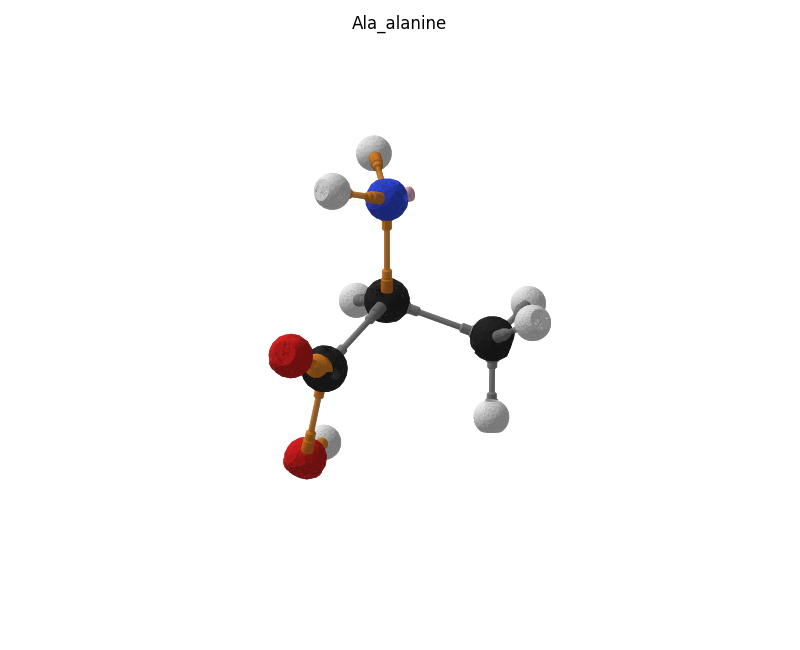
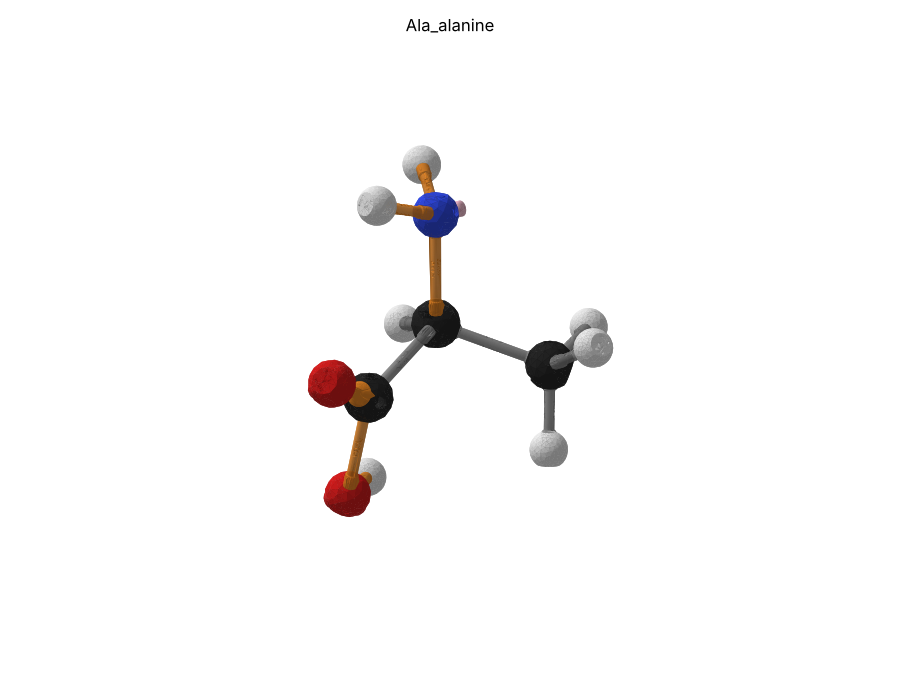
Исправить плоскостность этилена: C_D_PHASE -55.5 -> -61.5
Двугранные углы H-C=C-H были 12°/168° (закрутка, отклонение от плоскости до 8,4 мм),
стали 0°/180°. Пересчитан seat_cache_v2.json, добавлен pipeline/check_planar.py,
docs/SP2_PLANARITY.md с результатами и открытыми вопросами (C=N, N=N, аллен),
обновлены PNG этилена, CO2 и аланина.

Claude-Session: https://claude.ai/code/session_01UFShqiFHiL7LBFjN7V5Hne

diff --git a/00_source/pipeline/check_planar.py b/00_source/pipeline/check_planar.py
@@ -1,0 +1,52 @@
+"""Проверка плоскостности sp²-фрагментов с двойной связью.
+
+Для каждой двойной связи, у которой на обоих концах есть заместители, собирает пару «атом–связь–атом»
+по посадке из seat_cache_v2.json и печатает двугранные углы заместителей. Плоско = 0° или 180°.
+
+Запуск из рабочей папки, где лежат v2/<деталь>.stl, chemlib.py и seat_cache_v2.json:
+    python3 check_planar.py          # код возврата 1, если нарушена плоскость у обязательных связей (C=C, N=O)
+Известно: C=N и N=N пока не плоские (см. docs/SP2_PLANARITY.md); они печатаются как предупреждение.
+"""
+import sys
+import numpy as np
+from chemlib import S, SOCK, bond_local, atom_on_bond, seat_bond, seat_atom
+
+TOL = 1.0  # градусов
+
+
+def dihedral(p0, p1, p2, p3):
+    b0, b1, b2 = p0 - p1, p2 - p1, p3 - p2
+    b1n = b1 / np.linalg.norm(b1)
+    v, w = b0 - np.dot(b0, b1n) * b1n, b2 - np.dot(b2, b1n) * b1n
+    return float(np.degrees(np.arctan2(np.dot(np.cross(b1n, v), w), np.dot(v, w))))
+
+
+def check(name, a_el, a_sock, b_el, b_sock, bond, length_A, subs_a, subs_b):
+    """Двугранные углы заместителей (пазы subs_a у первого атома, subs_b у второго) вдоль двойной связи."""
+    L = length_A * S
+    a = seat_bond(a_el, a_sock, bond, L, 1)
+    x = seat_atom(bond, L, 2, b_el, b_sock)
+    Mc = bond_local(a_el, a_sock, bond, L, 1, a) @ atom_on_bond(b_el, b_sock, L, 2, x)
+    c2 = Mc[:3, 3]
+    angles = [dihedral(SOCK[a_el][i] * 60, np.zeros(3), c2, c2 + Mc[:3, :3] @ SOCK[b_el][j] * 60)
+              for i in subs_a for j in subs_b]
+    dev = max(min(abs(d) % 180, 180 - abs(d) % 180) for d in angles)  # отклонение от 0°/180°
+    return name, angles, dev
+
+
+CASES = [  # (обязательно, параметры)
+    (True,  ("C=C  H2C=CH2", "carbon", 4, "carbon", 4, "bond_CdC", 1.34, [0, 1], [0, 1])),
+    (True,  ("N=O  HO-N=O ", "nitrogen", 5, "oxygen", 2, "bond_NdO", 1.15, [0], [0, 1])),
+    (False, ("C=N  H2C=NH ", "carbon", 4, "nitrogen", 5, "bond_CdN", 1.28, [0, 1], [0, 1])),
+    (False, ("N=N  HN=NH  ", "nitrogen", 5, "nitrogen", 5, "bond_NdN", 1.25, [0, 1], [0, 1])),
+]
+
+if __name__ == "__main__":
+    bad = 0
+    for strict, args in CASES:
+        name, angles, dev = check(*args)
+        ok = dev <= TOL
+        mark = "OK " if ok else ("FAIL" if strict else "warn")
+        print(f"{mark} {name}: двугранные {[round(d, 1) for d in angles]}, отклонение от плоскости {dev:.1f}°")
+        bad += (not ok) and strict
+    sys.exit(1 if bad else 0)

diff --git a/docs/SP2_PLANARITY.md b/docs/SP2_PLANARITY.md
@@ -1,0 +1,37 @@
+# Плоскостность sp²: исправление двойной связи C=C
+
+Состояние на 2026-10-23, ветка `v2`.
+
+## Что было
+В beta5 этилен H₂C=CH₂ собирался **не плоским**: двугранные углы H–C=C–H были 12° и 168° (вместо 0° и 180°),
+шесть атомов отходили от общей плоскости до 8,4 мм. Для углерода sp² все три паза (T0, T1, Д1) лежат в одной плоскости,
+поэтому плоскость молекулы целиком определяется поворотом витой щели двойного паза вокруг своей оси (параметр фазы).
+Параметр `C_D_PHASE = -55.5` оставлял закрутку 11,5–12°.
+
+## Что сделано
+- `00_source/chem_constructor.scad`: `C_D_PHASE = -61.5`. Двугранный угол H–C=C–H = 2·(`C_D_PHASE` + 61,5) по модулю 180°, то есть ровно 0°/180° при −61,5.
+- `00_source/seat_cache_v2.json`: пересчитаны посадки двойного паза углерода (угол 96° → 90°, у C=C на обоих концах и у C=O).
+- Пересобраны модели, зависящие от углерода: `carbon.stl`, этилен, CO₂, аланин (GLB, USDZ, PNG), пластины с атомами C, тестеры.
+- Новый скрипт `00_source/pipeline/check_planar.py`: считает двугранные углы по посадкам и возвращает код 1, если нарушена плоскость у C=C или N=O.
+
+## Результат (по сборке из STL, булева проверка посадки без пересечений)
+
+| Фрагмент | Двугранные углы | Плоскость |
+|---|---|---|
+| C=C, H₂C=CH₂ было | −168,0° / 12,0° | отклонение до 8,4 мм |
+| C=C, H₂C=CH₂ стало | ±180,0° / 0,0° | 0,0 мм |
+| N=O, HO–N=O | 0,0° / 180,0° | ✔ (не менялось) |
+
+Углы при sp²-углероде остаются 130° (Д1–T0), 120,5° (Д1–T1) и 109,5° (T0–T1): у этилена H–C–H = 109,5° вместо реальных ≈117°.
+Плоскость от этого не страдает.
+
+## Что печатать заново
+Только углероды, которые будут стоять в C=C (у них паз Д1 повернут на 6°). Остальные напечатанные углероды (метан, этан, карбонил и т. д.) годятся:
+поворот щели Д1 для них ни на что не влияет. Связь C=C не менялась.
+
+## Что осталось неплоским
+`check_planar.py` показывает, что при текущих фазах **C=N и N=N не плоские** (отклонение 57° и 66°); раньше каталог это не отмечал.
+Расчёт (по аддитивности фаз, на STL не проверен) даёт одну совместимую настройку, при которой плоскими становятся все четыре двойные связи:
+`N_D_PHASE` 66 → 123 и фаза двойного паза кислорода 0 → 123 при `C_D_PHASE = -61,5`. Это меняет напечатанные N и O, поэтому не применено.
+
+Аллен H₂C=C=CH₂ (sp): угол между плоскостями концевых CH₂ получается 61° вместо 90°. Исправляется отдельной фазой паза −C_D (сейчас 0).

diff --git a/STATUS.md b/STATUS.md
@@ -8,6 +8,7 @@
 - Маркировка длины связи в Å на всех жёстких стержнях. Универсальные связи U1 (79 мм) и U2 (43 мм).
 - Азот получил двойной паз (N_D, фаза 66° → плоский HO–N=O), связь N=O 1,15 Å; гибридный NO удалён. Сборка NO проверена (посадка 0,71 мм³, N∩O = 0).
 - Пластины минимального набора для 8 молекул (атомы 12 шт., связи 19 шт.).
+- **2026-10-23: этилен плоский.** `C_D_PHASE` −55,5 → −61,5: H–C=C–H = 0°/180° вместо 12°/168° (`docs/SP2_PLANARITY.md`, проверка — `00_source/pipeline/check_planar.py`). Углероды для C=C надо напечатать заново.
 - Конвейер скриптов восстановлен в `00_source/pipeline/` (пути под рабочую папку v1 — адаптировать).
 
 ## Осталось до релиза
@@ -19,6 +20,7 @@
 6. LICENSE — на ветке `v2` лежит CC BY-NC-ND 4.0 (по бизнес-плану); условия продажи и коммерческая лицензия — до первой продажи.
 
 ## Известные ограничения
+- C=N и N=N при текущих фазах не плоские (57° и 66°), аллен: плоскости CH₂ под 61° вместо 90° — решение и расчёт в `docs/SP2_PLANARITY.md`, не применено (меняет напечатанные N и O).
 - Азот с одинарными связями пирамидальный; плоский амидный N не реализован. Нет N=N.
 - Пазы углерода не подписаны.
 - Двойные и тройные связи жёсткие (гибкими сделаны только одинарные).
